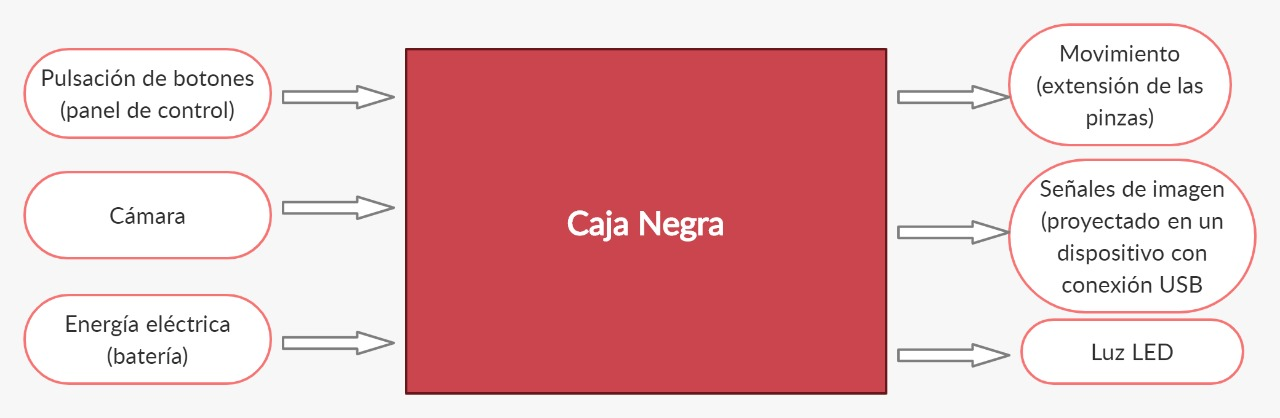
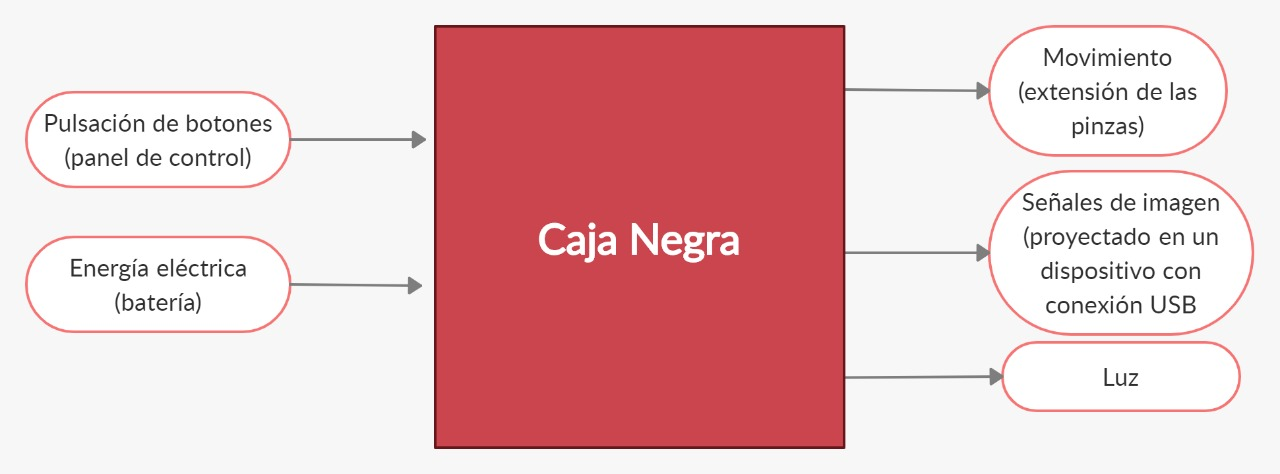
Actulización 2 entregable5

diff --git a/entregable5.html b/entregable5.html
@@ -133,17 +133,13 @@
           <div class="entrada_item">
               <i class="fas fa-toggle-on fa-2x"></i>
               <h3>BOTONES</h3>
-              <p>Descripción</p>
+              <p>2 pares para un control de desplazamiento micrométrico</p>
           </div>
-          <div class="entrada_item">
-              <i class="fas fa-camera-retro fa-2x"></i>
-              <h3>CÁMARA</h3>
-              <p>Descripción</p>
-          </div>
+          
           <div class="entrada_item">
               <i class="fas fa-battery-three-quarters fa-2x"></i>
               <h3>ENERGÍA</h3>
-              <p>La energía eléctrica con la que trabajará el dispositivo</p>
+              <p>Fuente de alimentación para el prototipo.</p>
           </div>
       </div>
 
@@ -177,8 +173,8 @@
   
   <br>
 
-  <h2 class="subN">TABLA DE EVALUACIÓN DE LOS CONCEPTOS DE SOLUCIÓN</h2><br>
-      
+  <h2 class="subN">TABLA DE EVALUACIÓN DE LOS CONCEPTOS DE SOLUCIÓN</h2>
+    <center><img src="Evaluacion_TecEco.jpeg" style="width: 100%; border: none;"></center>
 </article>
 
 <div class="arte">

diff --git a/estiloEntregableAll.css b/estiloEntregableAll.css
@@ -378,6 +378,9 @@ a{
   border-radius: 0px 0px 20px 0px;
   min-width: 165px;
   transition: all ease 350ms;
+}
+.entrada .entrada_item{
+  width: 40%;
 }   
 .salida .entrada_item{
   background: #c1e3ff;
